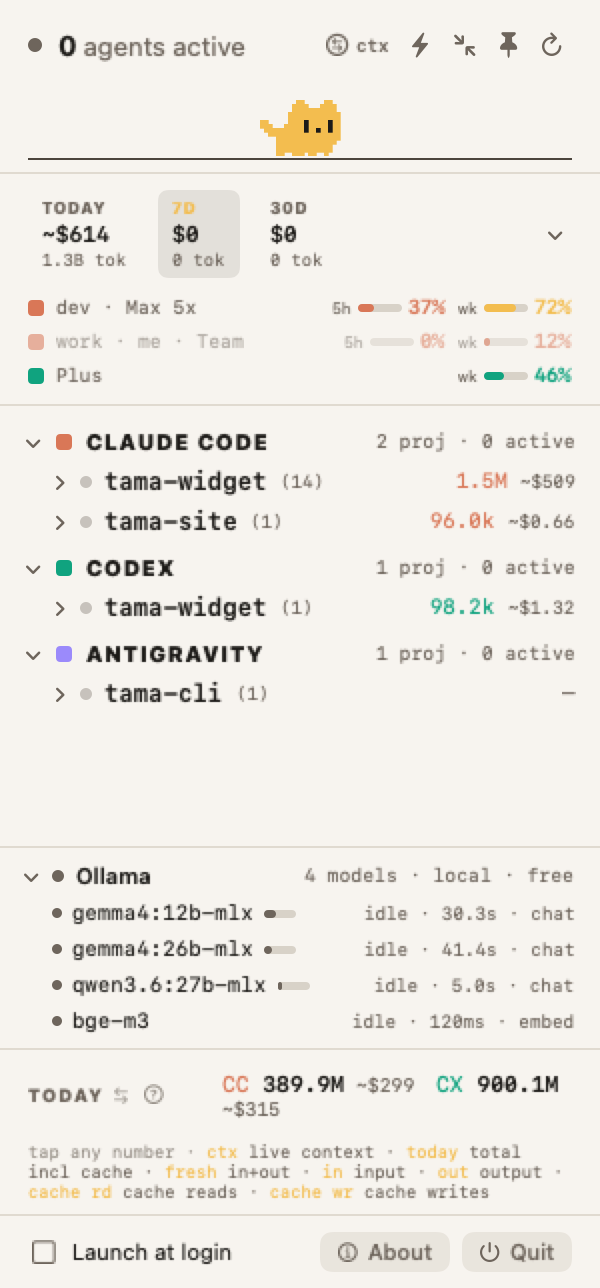
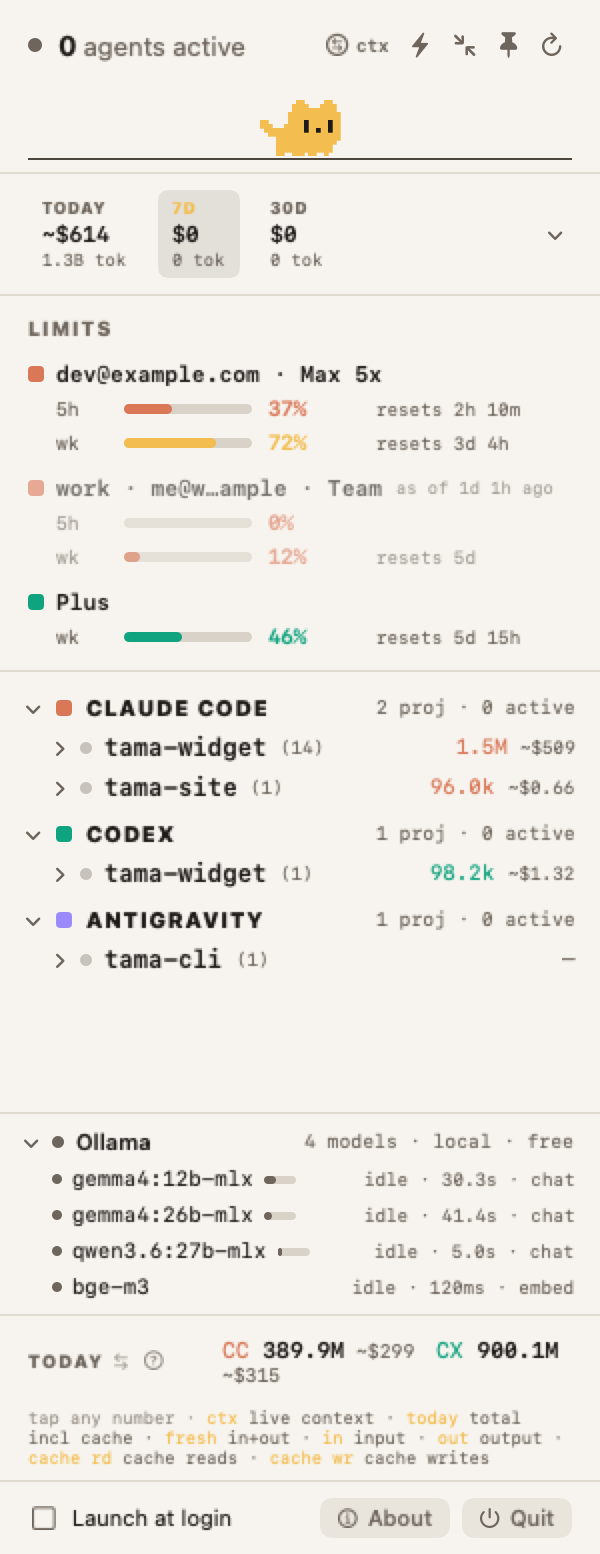
feat(app): promote plan limits to a top-level LIMITS section
Redesign the strip for readability per its own section (bracketed by dividers like
the tree): a LIMITS header, then per account a header line (label · email · plan)
with each window on its own row — label, a wider fill bar, the used %, and the
reset countdown always visible (no hover). Stale accounts dim with an 'as of …'
note; an expired window reads '—'. New tested QuotaFormat.resetLabel keeps the
view thin. README mock + screenshots updated.

diff --git a/Sources/Tama/LimitsStrip.swift b/Sources/Tama/LimitsStrip.swift
@@ -1,11 +1,12 @@
 import SwiftUI
 import TamaCore
 
-/// Plan limits per provider account: one compact row per `AccountQuota` — provider dot, who the
-/// account is, then a mini gauge per window (5h / wk / per-model) with the used share. Hidden
-/// when nothing is known. Reset countdown, data age and source live in the row's tooltip; a row
-/// whose snapshot is older than 15 minutes is dimmed, and a window whose reset has already
-/// passed shows "reset" instead of a stale percentage.
+/// Its own top-level "LIMITS" section (bracketed by dividers, like the tree): per provider account,
+/// how much of the subscription's session (5h) and weekly window is used. Each account is a header
+/// line — who it is (label · email · plan) — followed by one row per window: label, a fill bar, the
+/// used %, and the reset countdown. A snapshot older than 15 min dims the whole account and shows an
+/// "as of …" note; a window whose reset has passed reads "reset" instead of a stale number. The
+/// section (and its leading divider) disappear entirely when no quota is known.
 struct LimitsStrip: View {
     @ObservedObject var monitor: AgentMonitor
 
@@ -13,49 +14,70 @@ struct LimitsStrip: View {
 
     var body: some View {
         if !monitor.state.quotas.isEmpty {
-            VStack(alignment: .leading, spacing: 4) {
-                ForEach(monitor.state.quotas) { row($0) }
+            Divider().overlay(Palette.panelEdge)
+            VStack(alignment: .leading, spacing: 9) {
+                Text("LIMITS")
+                    .font(.system(size: scaled(10), weight: .heavy)).tracking(1)
+                    .foregroundStyle(Palette.dim)
+                ForEach(monitor.state.quotas) { account($0) }
             }
-            .padding(.horizontal, 14).padding(.bottom, 8)
+            .padding(.horizontal, 14).padding(.vertical, 10)
+            .frame(maxWidth: .infinity, alignment: .leading)
         }
     }
 
-    private func row(_ q: AccountQuota) -> some View {
+    @ViewBuilder
+    private func account(_ q: AccountQuota) -> some View {
         let tint = providerTint(q.provider)
-        let stale = QuotaFormat.staleness(fetchedAt: q.fetchedAt, now: now) != nil
-        return HStack(spacing: 6) {
-            RoundedRectangle(cornerRadius: 2).fill(tint).frame(width: 8, height: 8)
-            Text(QuotaFormat.title(q, compact: true))
-                .font(.system(size: scaled(9.5), design: .monospaced))
-                .foregroundStyle(Palette.dim)
-                .lineLimit(1).truncationMode(.middle)
-            Spacer(minLength: 6)
+        let stale = QuotaFormat.staleness(fetchedAt: q.fetchedAt, now: now)
+        VStack(alignment: .leading, spacing: 4) {
+            HStack(spacing: 6) {
+                RoundedRectangle(cornerRadius: 2).fill(tint).frame(width: 8, height: 8)
+                Text(QuotaFormat.title(q))
+                    .font(.system(size: scaled(11), weight: .semibold, design: .monospaced))
+                    .foregroundStyle(Palette.text)
+                    .lineLimit(1).truncationMode(.middle)
+                if let stale {
+                    Text(stale).font(.system(size: scaled(8.5), design: .monospaced))
+                        .foregroundStyle(Palette.dim).fixedSize()
+                }
+                Spacer(minLength: 0)
+            }
             ForEach(Array(q.windows.enumerated()), id: \.offset) { _, w in
-                gauge(w, tint: tint)
+                windowRow(w, tint: tint)
             }
         }
-        .opacity(stale ? 0.55 : 1)
+        .opacity(stale != nil ? 0.6 : 1)
         .help(help(q))
     }
 
-    private func gauge(_ w: QuotaWindow, tint: Color) -> some View {
+    private func windowRow(_ w: QuotaWindow, tint: Color) -> some View {
         let expired = w.isExpired(at: now)
         let frac = expired ? 0 : w.usedPercent / 100
         let color: Color = w.usedPercent >= 90 ? Palette.warn : (w.usedPercent >= 70 ? Palette.yellow : tint)
-        return HStack(spacing: 3) {
+        return HStack(spacing: 8) {
             Text(w.kind.label)
-                .font(.system(size: scaled(8), design: .monospaced))
+                .font(.system(size: scaled(9.5), design: .monospaced))
                 .foregroundStyle(Palette.dim)
+                .frame(width: scaled(26), alignment: .leading)
             ZStack(alignment: .leading) {
-                Capsule().fill(Palette.track).frame(width: 22, height: 4)
+                Capsule().fill(Palette.track).frame(width: 64, height: 5)
                 Capsule().fill(expired ? Palette.dim : color)
-                    .frame(width: max(frac > 0 ? 2 : 0, 22 * frac), height: 4)
+                    .frame(width: max(frac > 0 ? 3 : 0, 64 * frac), height: 5)
             }
-            Text(expired ? "reset" : QuotaFormat.percent(w.usedPercent))
-                .font(.system(size: scaled(10), weight: .semibold, design: .monospaced))
+            Text(expired ? "—" : QuotaFormat.percent(w.usedPercent))
+                .font(.system(size: scaled(10.5), weight: .semibold, design: .monospaced))
                 .foregroundStyle(expired ? Palette.dim : color)
+                .frame(width: scaled(46), alignment: .leading)
+            if let reset = QuotaFormat.resetLabel(w, now: now) {
+                Text(reset)
+                    .font(.system(size: scaled(9), design: .monospaced))
+                    .foregroundStyle(Palette.dim)
+                    .lineLimit(1)
+            }
+            Spacer(minLength: 0)
         }
-        .fixedSize()
+        .padding(.leading, 14)
     }
 
     private func help(_ q: AccountQuota) -> String {

diff --git a/Tests/TamaCoreTests/QuotaFormatTests.swift b/Tests/TamaCoreTests/QuotaFormatTests.swift
@@ -39,6 +39,16 @@ final class QuotaFormatTests: XCTestCase {
         XCTAssertEqual(QuotaFormat.title(noEmail, compact: true), "Plus")
     }
 
+    func test_reset_label_shows_countdown_or_reset_or_nothing() {
+        let now = t0
+        XCTAssertEqual(QuotaFormat.resetLabel(QuotaWindow(kind: .weekly, usedPercent: 40,
+                       resetsAt: now.addingTimeInterval(3 * 86400 + 4 * 3600)), now: now), "resets 3d 4h")
+        XCTAssertEqual(QuotaFormat.resetLabel(QuotaWindow(kind: .session, usedPercent: 40,
+                       resetsAt: now.addingTimeInterval(-5)), now: now), "reset", "past the reset → the window has rolled over")
+        XCTAssertNil(QuotaFormat.resetLabel(QuotaWindow(kind: .session, usedPercent: 0, resetsAt: nil), now: now),
+                     "no reset time → no label")
+    }
+
     func test_percent_label_drops_needless_decimals() {
         XCTAssertEqual(QuotaFormat.percent(46), "46%")
         XCTAssertEqual(QuotaFormat.percent(12.5), "12.5%")

diff --git a/Sources/TamaCore/UI/QuotaFormat.swift b/Sources/TamaCore/UI/QuotaFormat.swift
@@ -32,6 +32,13 @@ public enum QuotaFormat {
         return parts.isEmpty ? "default" : parts.joined(separator: " · ")
     }
 
+    /// The reset hint for a window: "resets 2h 10m", "reset" once the window has rolled over,
+    /// or nil when the provider gave no reset time.
+    public static func resetLabel(_ w: QuotaWindow, now: Date) -> String? {
+        guard let r = w.resetsAt else { return nil }
+        return w.isExpired(at: now) ? "reset" : "resets \(countdown(to: r, from: now))"
+    }
+
     /// "46%" / "12.5%" — one decimal only when it carries information.
     public static func percent(_ v: Double) -> String {
         let rounded = (v * 10).rounded() / 10

diff --git a/README.md b/README.md
@@ -53,8 +53,13 @@ menu bar:  🐱 3
 ● 3 agents active
 
 TODAY ~$4.90    7D ~$31    30D ~$120
-● dev@example.com · Max 5x      5h ▇▁ 37%   wk ▇▇ 72%
-● Plus                                      wk ▇▁ 46%
+
+LIMITS
+● dev@example.com · Max 5x
+    5h  ▇▇▁▁▁▁  37%   resets 2h 10m
+    wk  ▇▇▇▇▁▁  72%   resets 3d 4h
+● Codex · Plus
+    wk  ▇▇▇▁▁▁  46%   resets 5d 15h
 
 ▾ CLAUDE CODE                       2 proj · 2 active
   ▾ tama-widget (2)                 91.4k ctx ~$3.05
